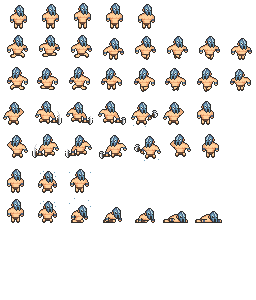
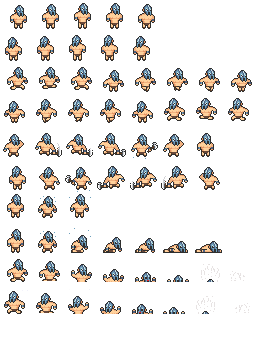
Add files via upload

diff --git a/Projet Final grand oral/jeu.py b/Projet Final grand oral/jeu.py
@@ -30,25 +30,29 @@ class Player(pygame.sprite.Sprite):
     def __init__(self,x,y):
         super().__init__()
         self.sprite_sheet= SpriteSheet("player.png")
-        self.sprite_sheet.load_images("idle",numbers = 5)
-        self.sprite_sheet.load_images("run_r",numbers = 8,row = 1)
-        self.sprite_sheet.load_images("run_l",numbers = 8,row = 2)
-        self.sprite_sheet.load_images("attack_r",numbers = 8,row = 3)
-        self.sprite_sheet.load_images("attack_l",numbers = 8,row = 4)
-        self.sprite_sheet.load_images("hit",numbers = 3,row = 5)
-        self.sprite_sheet.load_images("death",numbers = 7,row = 6)
-        self.image = self.sprite_sheet.get_images("idle")[0]
+        self.sprite_sheet.load_images("idle_r",numbers = 5)
+        self.sprite_sheet.load_images("idle_l",numbers = 5,row = 1)
+        self.sprite_sheet.load_images("run_r",numbers = 8,row = 2)
+        self.sprite_sheet.load_images("run_l",numbers = 8,row = 3)
+        self.sprite_sheet.load_images("attack_r",numbers = 8,row = 4)
+        self.sprite_sheet.load_images("attack_l",numbers = 8,row = 5)
+        self.sprite_sheet.load_images("hit",numbers = 3,row = 6)
+        self.sprite_sheet.load_images("death",numbers = 7,row = 7)
+        self.sprite_sheet.load_images("fall_r",numbers = 8,row = 8)
+        self.sprite_sheet.load_images("fall_l",numbers = 8,row = 9)
+        self.image = self.sprite_sheet.get_images("idle_r")[0]
         self.rect= self.image.get_rect()
         self.position  = [x,y]
         self.feet = pygame.Rect(0,0,self.rect.width,12)
         self.collision = pygame.Rect(0,0,self.rect.width,self.rect.height)
-        self.current_animation = "idle"
+        self.current_animation = "idle_r"
         self.old_position = self.position
         self.current_animation_index = 0
         self.cooldown = -100
         self.speed=3
         self.life  = 3
         self.alive = True
+        self.last_view = "idle_r"
 
     def move_right(self):
         self.position[0] += self.speed
@@ -190,21 +194,33 @@ class Game:
             if pressed[pygame.K_UP]:
                 self.player.move_up()
                 self.player.change_animation("run_r")
+                self.player.last_view = "idle_r"
             elif pressed[pygame.K_DOWN]:
                 self.player.move_down()
-                self.player.change_animation("run_r")
+                self.player.change_animation("run_l")
+                self.player.last_view = "idle_l"
             elif pressed[pygame.K_RIGHT]:
                 self.player.move_right()
                 self.player.change_animation("run_r")
+                self.player.last_view = "idle_r"
             elif pressed[pygame.K_LEFT]:
                 self.player.move_left()
                 self.player.change_animation("run_l")
+                self.player.last_view = "idle_l"
             elif pressed[pygame.K_0]:
                 self.player.change_animation("attack_r")
+                self.player.last_view = "idle_r"
             elif pressed[pygame.K_1]:
                 self.player.change_animation("attack_l")
+                self.player.last_view = "idle_l"
+            elif pressed[pygame.K_f]:
+                self.player.change_animation("fall_l")
+                self.player.last_view = "idle_l"
+            elif pressed[pygame.K_g]:
+                self.player.change_animation("fall_r")
+                self.player.last_view = "idle_r"
             else:
-                self.player.change_animation("idle")
+                self.player.change_animation(self.player.last_view)
 
 
 

diff --git a/Projet Final grand oral/README.md b/Projet Final grand oral/README.md
@@ -1,0 +1,11 @@
+Déplacement :
+* ATTENTION il est préférable de baisser le son du jeu lors du démarrage (musique d'ambiance un peu forte)
+* fleche du haut pour monter  
+* fleche du bas pour descendre  
+* fleche de droite pour aller à droite  
+* fleche de gauche pour aller à gauche  
+Pour lancer le programme, il est nécessaire d'installer 'pytmx' et 'pyscroll' :  
+pip install pytmx  
+pip install pyscroll  
+(l'installation peut prendre un moment)  
+Afin de voir à quoi ressemble les fichier .tmx, il faut installer le logiciel Tiled, qui est un logiciel permettant l'édition de carte de jeu vidée : "https://www.mapeditor.org/" (ce n'est pas obligatoire pour lancer le programme)
